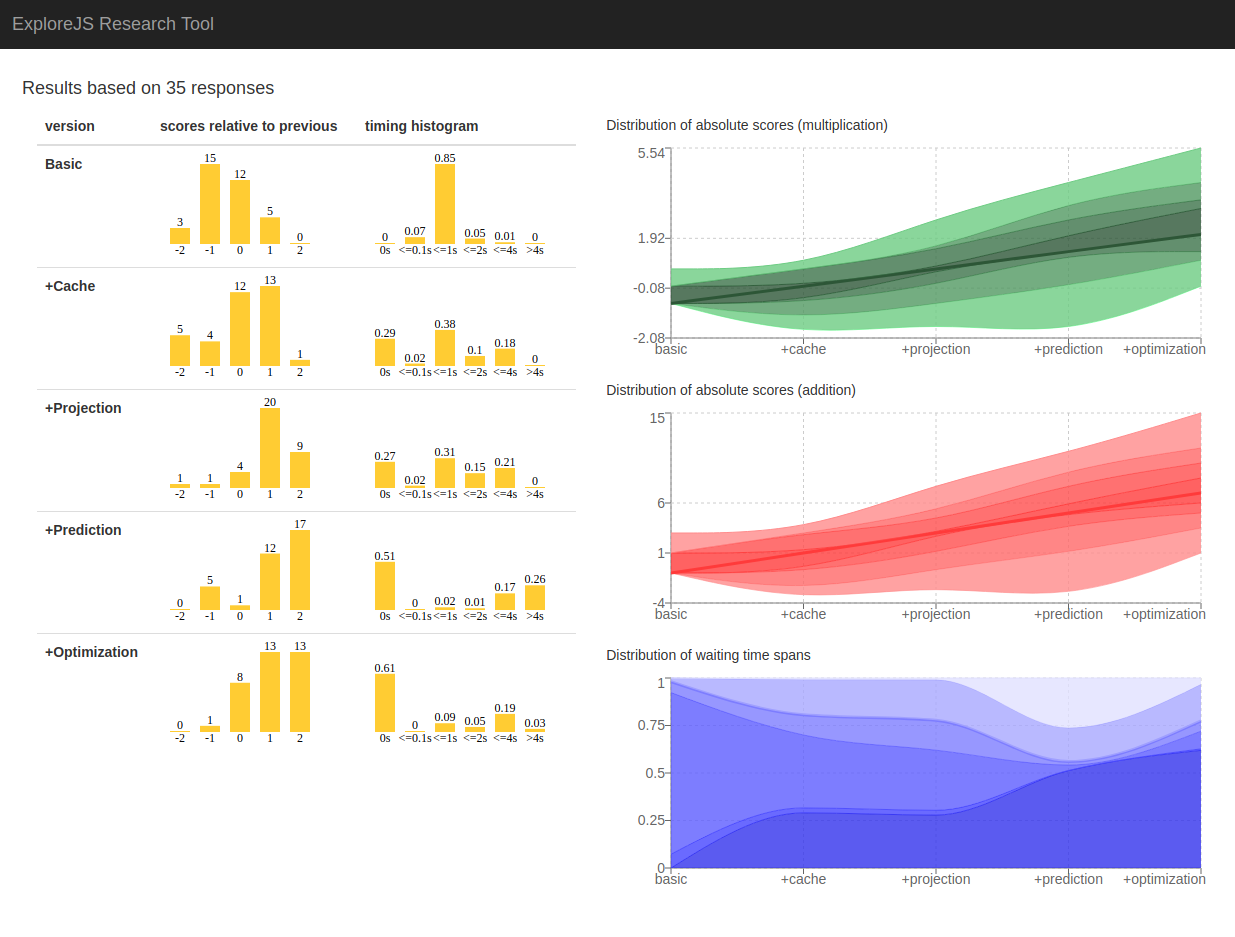
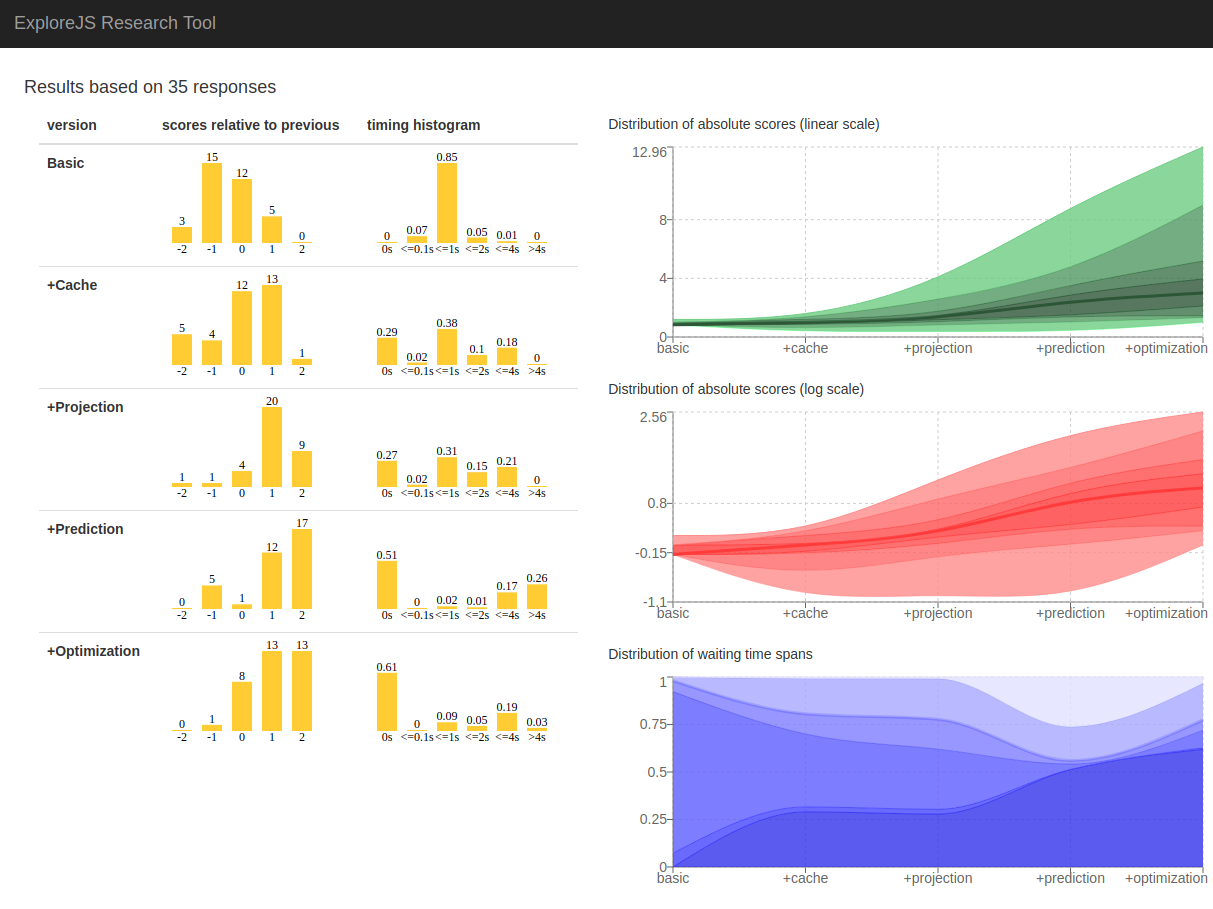
added

diff --git a/html/src/content/chapters/research-tool.html b/html/src/content/chapters/research-tool.html
@@ -188,7 +188,7 @@
     <img src="/images/research-tool/summary.png" class="bordered"/>
 </figure>
 
-<h2>Moduł analizy wyników</h2>
+<h2>Moduł analizy wyników ankiety</h2>
 
 <p>
     Przedstawiany poniżej moduł narzędzia badawczego służy dokonaniu analizy przez osobę przeprowadzającą badania
@@ -332,23 +332,171 @@
 </figure>
 
 
-<h3>Widok zbiorczy</h3>
+<h3 class="keep-after">Widok zbiorczy</h3>
 
-Po uznaniu wiarygodności odpowiedzi, aplikacja pozwala na automatyczne przetworzenie wszystkich odpowiedzi i wyświetla końcowe wyniki.
-
-<p helper>
-    Uzupełnić, gdy zrobiona zostanie część zbiorcza (korelacje etc)
+<p class="keep-inside">
+    Po przejrzeniu pojedynczych wyników badania subiektywnych ocen użytkowników można przejść do widoku, który
+    prezentuje w sposób graficzny podsumowanie ocen i ich korelację z obiektywną miarą responsywności systemu
+    (ilustracja <a href="#picture:rt-responses-statistics"></a>).
 </p>
-
 
 <figure type="picture" id="picture:rt-responses-statistics">
     <figcaption>Widok podsumowujący oceny użytkowników</figcaption>
-    <img src="/images/research-tool/responses-statistics.png"/>
+    <img src="/images/research-tool/responses-statistics.png" width="80%"/>
 </figure>
+
+<p>
+    Dla każdej z testowanych przez użytkowników wersji rozwiązania zostały przedstawione dwa histogramy.
+</p>
+<p>
+    Pierwszy z nich (lewa kolumna) pokazuje rozkład wystawionych poszczególnych ocen wersji rozwiązania względem
+    poprzedniej.
+
+    Oceny zostały oznaczone cyframi, gdzie ocena neutralna oznaczona jest cyfrą <q>0</q>, ocena <q>nieco lepsza</q>
+    &mdash; <q>+1</q>, <q>nieznacznie gorsza</q> &mdash; <q>-1</q>, <q>nieporównywalnie lepsza</q> &mdash; <q>+2</q>, a
+    <q>dużo gorsza</q> &mdash; <q>-2</q>.
+    Z powyższczego można na przykład wywnioskować, że pięciu respondentów uznało rozwiązanie z pamięcią <em>cache</em>
+    za dużo gorsze od rozwiązania bazowego.
+</p>
+
+<p>
+    Drugi histogram (prawa kolumna) pokazuje rozkład responsywności systemu, opisany w rozdziale <a
+        href="#chapter:response-time-measurement"></a>.
+
+    Rozkład ten jest średnią znormalizowanych histogramów pojedynczych sesji badania.
+
+    Nieznormalizowany histogram dla pojedynczej sesji badania pokazywałby rozkład responsywności dla każdego przedziału
+    czasu przedstawiający liczbę sytuacji, w której użytkownik musiał czekać na dane przez ten czas.
+
+    Normalizacja pojedynczych histogramów przed uśrednieniem jest konieczna ze względu na zróżnicowanie intensywności
+    nawigacji użytkowników.
+    Dla przykładu, bez tej normalizacji mogłoby się zdarzyć, że jeden użytkownik, który bardzo długo testował pojedynczy
+    przypadek, spowodował 1000 sytuacji oczekiwania na dane, gdzie w każdej oczekiwał jedną sekundę podczas gdy
+    pozostali użytkownicy testowali eksplorację mniej intensywnie, ale ich czasy były mniejsze, co wygenerowało łącznie
+    tylko 100 sytuacji oczekiwania, ale każde wynoszące tylko <em>0.1s</em>.
+    Normalizacja powoduje, że dla każdego użytkownika bierze się pod uwagę stosunek czasów z jednego przedziału do
+    innego, bez względu na intensywność testowania, a przykładowa dysproporcja jest niwelowana.
+</p>
+
+<p>
+    Należy pamiętać, że oceny użytkowników są interpretowane jako wartości względne, określające różnice pomiędzy daną
+    wersją rozwiązania a jej poprzednią.
+
+    Nie można bezpośrednio użyć tych ocen do wzajemnego porównania wszystkich wersji rozwiązania, gdyż te wartości są
+    niejako pochodną właściwej oceny bezwzględnej.
+
+
+    Niestety, sprowadzenie wyrażeń dotyczących odczuć użytkownika do konkretnego punktu na wykresie w celu porównania
+    jest trudnym zadaniem.
+
+    Aby porównać wszystkie rozwiązania zwględem siebie należy przekształcić te subiektywne oceny w bezwzględną
+    punktację, czyli odpowiednio scałkować.
+
+
+    By to zrobić, należy przyjąć intuicyjne założenie co do wzoru punktacji bezwzględnej.
+</p>
+
+<p>
+    Punktacja danej wersji rozwiązania jest tutaj ilocznym punktacji wersji poprzedniej oraz mnożnika
+    odpowiadającego przydzielonej ocenie względnej.
+    Oceną wyjściową jest liczba <em>1</em>.
+    Współczynniki pokazano w tabeli <a href="#table:absolute-points"></a>.
+</p>
+
+<figure type="table" id="table:absolute-points">
+    <figcaption>Tabela intuicyjnie dobranych współczynników oceny względenj</figcaption>
+    <table class="table">
+        <thead>
+        <tr>
+            <th>ocena zwględna</th>
+            <th>wartość mnożnika</th>
+            <th>intuicyjna interpretacja</th>
+        </tr>
+        </thead>
+        <tbody>
+        <tr>
+            <td>neutralna</td>
+            <td>&times; 1</td>
+            <td>równie tyle co poprzednie</td>
+        </tr>
+        <tr>
+            <td>nieco lepsze</td>
+            <td>&times; 1.2</td>
+            <td>1.2 razy lepsze od poprzedniego</td>
+        </tr>
+        <tr>
+            <td>nieporównywalnie lepsze</td>
+            <td>&times; 2</td>
+            <td>2 razy lepsze od poprzedniego</td>
+        </tr>
+        <tr>
+            <td>nieco gorsze</td>
+            <td>&times; 1/1.2</td>
+            <td>1.2 razy gorsze od poprzedniego</td>
+        </tr>
+        <tr>
+            <td>dużo gorsze</td>
+            <td>&times; 1/2</td>
+            <td>dwa razy gorsze od poprzedniego</td>
+        </tr>
+        </tbody>
+    </table>
+</figure>
+
+<p>
+    Dla przykładu, jeżeli respondent stwierdzi, że każde kolejne rozwiązanie jest nieporównywalnie lepsze od
+    poprzedniego, to oceny bezwzględne będą miały wartości <em>(1,2,4,8,16)</em>, co by wskazywało na ogromną różnicę
+    między pierwszym i ostatnim rozwiązaniem.
+
+    Jest to uzasadnione, skoro każda kolejna wersja robiła na nim coraz większe wrażenie.
+
+    Natomiast, jeżeli respondent oceni odpowiednio <q>nieporównywalnie lepiej</q>, <q>nieporównywalnie lepiej</q>,
+    <q>dużo gorzej</q> oraz <q>nieco gorzej</q>, to oceny bezwzględne będą miały wartości
+    <em>(1, 2, 4, 2, 1.7)</em>, co by wskazywało, że ostatnie rozwiązanie jest nieco gorsze od drugiego, ale lepsze od
+    pierwszego, z kolei rozwiązanie drugie i czwarte jest tak samo ocenione.
+
+</p>
+<p>
+    Należy mieć na uwadze, że powyższe liczby powstały w wyniku intuicyjnego przydzielenia arbitralnych współczynników,
+    zatem faktyczna wartość nadal nie jest znana.
+
+    To co jest ważne w ocenie absolutnej to możliwość wizualizowania tych wyników w postaci wykresu i oceniania
+    tendencji wzrostu tych ocen i porównania z innymi parametrami mierzonymi podczas badania.
+</p>
+
+<p>
+    W ten sposób obliczona punktacja rozwiązań została zwizualizowana na dwóch pierwszych wykresach pokazanych na
+    ilustracji <a href="#picture:rt-responses-statistics"></a>.
+
+
+    Są to warstwowe wykresy percentylowe, które pokazują rozkład ocen bezwzględnych dla każdej wersji rozwiązania.
+
+    Prezentowany jest 10-ty, 20-ty, 30-ty, ..., 90-ty percentyl.
+    50-ty percentyl, czyli najczęstsza ocena, zaznaczona jest najciemniejszym kolorem, a skrajne oceny (10-ty i 90-ty
+    percentyl) zostały zaznaczone najjaśniejszym kolorem.
+
+    Pierszy wykres pokazuje wyniki w przestrzeni liniowej, dzięki czemu można interpretować bezwzględne wartości ocen.
+    Drugi wykres pokazuje te same dane w przestrzeni logarytmicznej, dzięki czemu łatwiej jest interpretować różnice
+    tych ocen.
+    Na przykład, ocena dwa razy większa oraz dwa razy mniejsza od pewnej oceny będą od niej równo odległe.
+</p>
+
+<p>
+    Ostatnim z trzech prezentowanych na tym ekranie wykresów jest wykres warstwowy pokazujący procentowy udział
+    poszczególnych przedziałów czasów oczekiwania w danej wersji rozwiazania.
+</p>
+
+<p>
+    Porównanie trzech zaprezentowanych wykresów pozwala stwierdzić, czy istnieje korelacja pomiędzy subiektywnymi
+    ocenami użytkowników a responsywnością poszczególnych wersji.
+</p>
+
+
+<h2>Moduł testów wydajnościowych</h2>
 
 <figure type="picture" id="picture:rt-perf-list">
     <figcaption>Ekran główny modułu testów wydajnościowych</figcaption>
-    <img src="/images/research-tool/perf-list.png"/>
+    <img src="/images/research-tool/perf-list.png" width="60%"/>
 </figure>
 
 <figure type="picture" id="picture:rt-perf-recording">
@@ -380,7 +528,7 @@ Po uznaniu wiarygodności odpowiedzi, aplikacja pozwala na automatyczne przetwor
 </figure>
 
 
-<h3>Testowanie narzędzia</h3>
+<h2>Testowanie narzędzia</h2>
 <p>
     Narzędzie przeszło testy na grupie 5 osób, które pod nadzorem przeszły badania.
     Zostały zaproponowane i wdrożone następujące poprawki:

diff --git a/html/src/content/chapters/methodology/usability.html b/html/src/content/chapters/methodology/usability.html
@@ -159,7 +159,7 @@
     </li>
 </ul>
 
-<h3>Obiektywna miara użyteczności</h3>
+<h3 id="chapter:response-time-measurement">Obiektywna miara użyteczności</h3>
 
 <p>
     Uzyskane wyniki powinny wykazać, które rozwiązanie zostało statystycznie najlepiej ocenione.
